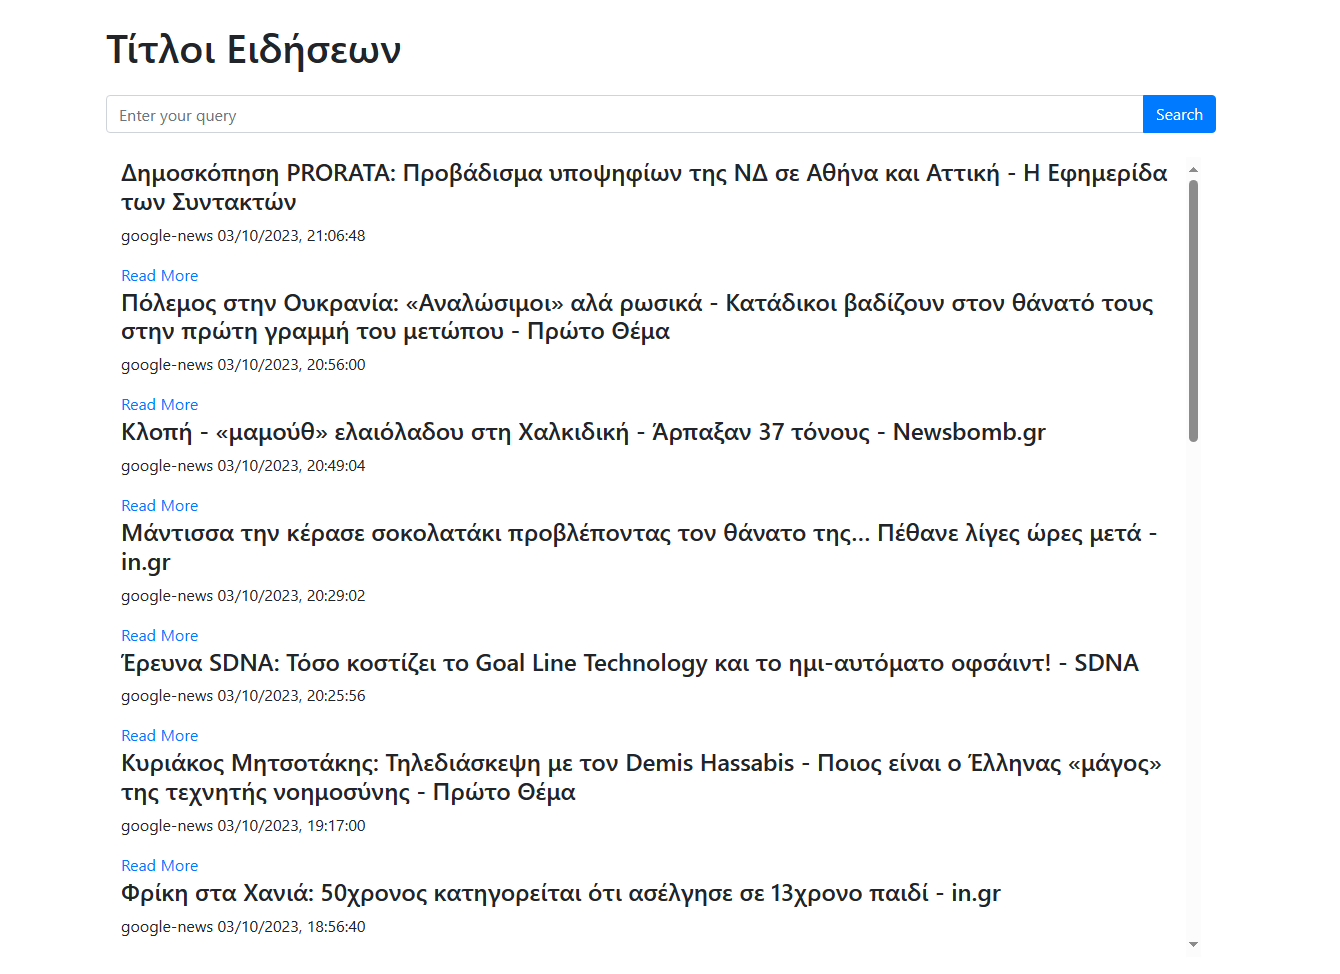
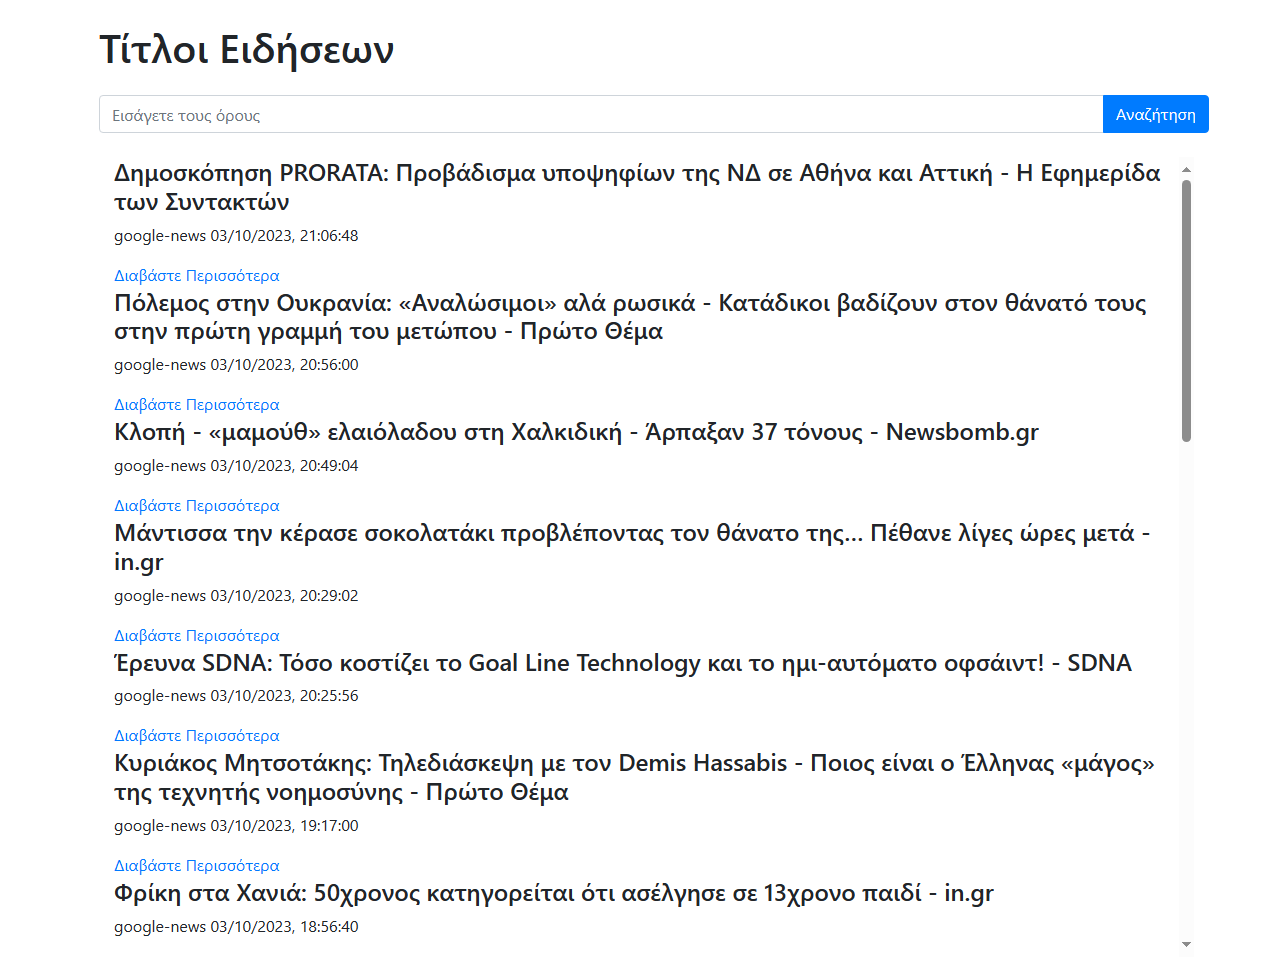
changed news country

Changed region(s): [[0.0622, 0.0934, 0.9635, 0.9647], [0.0622, 0.0311, 0.3108, 0.0934]]

diff --git a/templates/index.html b/templates/index.html
@@ -3,20 +3,20 @@
 <head>
     <meta charset="UTF-8">
     <meta name="viewport" content="width=device-width, initial-scale=1.0">
-    <title>News Headlines</title>
+    <title>Τίτλοι Ειδήσεων</title>
 
     <!-- Include Bootstrap CSS -->
     <link rel="stylesheet" href="https://maxcdn.bootstrapcdn.com/bootstrap/4.5.2/css/bootstrap.min.css">
 </head>
 <body>
     <div class="container">
-        <h1 class="mt-4">News Headlines</h1>
+        <h1 class="mt-4">Τίτλοι Ειδήσεων</h1>
 
         <form id="searchForm" class="mt-4">
             <div class="input-group">
-                <input type="text" id="searchInput" class="form-control" placeholder="Enter your query">
+                <input type="text" id="searchInput" class="form-control" placeholder="Εισάγετε τους όρους">
                 <div class="input-group-append">
-                    <button type="submit" class="btn btn-primary">Search</button>
+                    <button type="submit" class="btn btn-primary">Αναζήτηση</button>
                 </div>
             </div>
         </form>

diff --git a/static/main.js b/static/main.js
@@ -24,7 +24,7 @@ document.addEventListener('DOMContentLoaded', async () => {
                     descriptionElement.textContent = article.description;
 
                     const urlElement = document.createElement('a');
-                    urlElement.textContent = 'Read More';
+                    urlElement.textContent = 'Διαβάστε Περισσότερα';
                     urlElement.href = article.url;
                     urlElement.target = '_blank'; // Open link in a new tab
 

diff --git a/app.py b/app.py
@@ -16,7 +16,7 @@ db = mongo_client.news
 def get_trending():
     try:
         # API Query for the most recent news headlines
-        news_api_url = f'https://newsapi.org/v2/top-headlines?country=US&apiKey={API_KEY}'
+        news_api_url = f'https://newsapi.org/v2/top-headlines?country=GR&apiKey={API_KEY}'
         response = requests.get(news_api_url)
         response.raise_for_status()  # Raise an exception if there's an HTTP error
         data = response.json()
@@ -32,7 +32,7 @@ def get_trending():
 def get_trending_with_query(user_q: str):
     try:
         # API Query for the most recent news headlines for user's specified query
-        news_api_url = f'https://newsapi.org/v2/top-headlines?q={user_q}&apiKey={API_KEY}'
+        news_api_url = f'https://newsapi.org/v2/top-headlines?country=GR&q={user_q}&apiKey={API_KEY}'
         response = requests.get(news_api_url)
         response.raise_for_status()  # Raise an exception if there's an HTTP error
         data = response.json()
